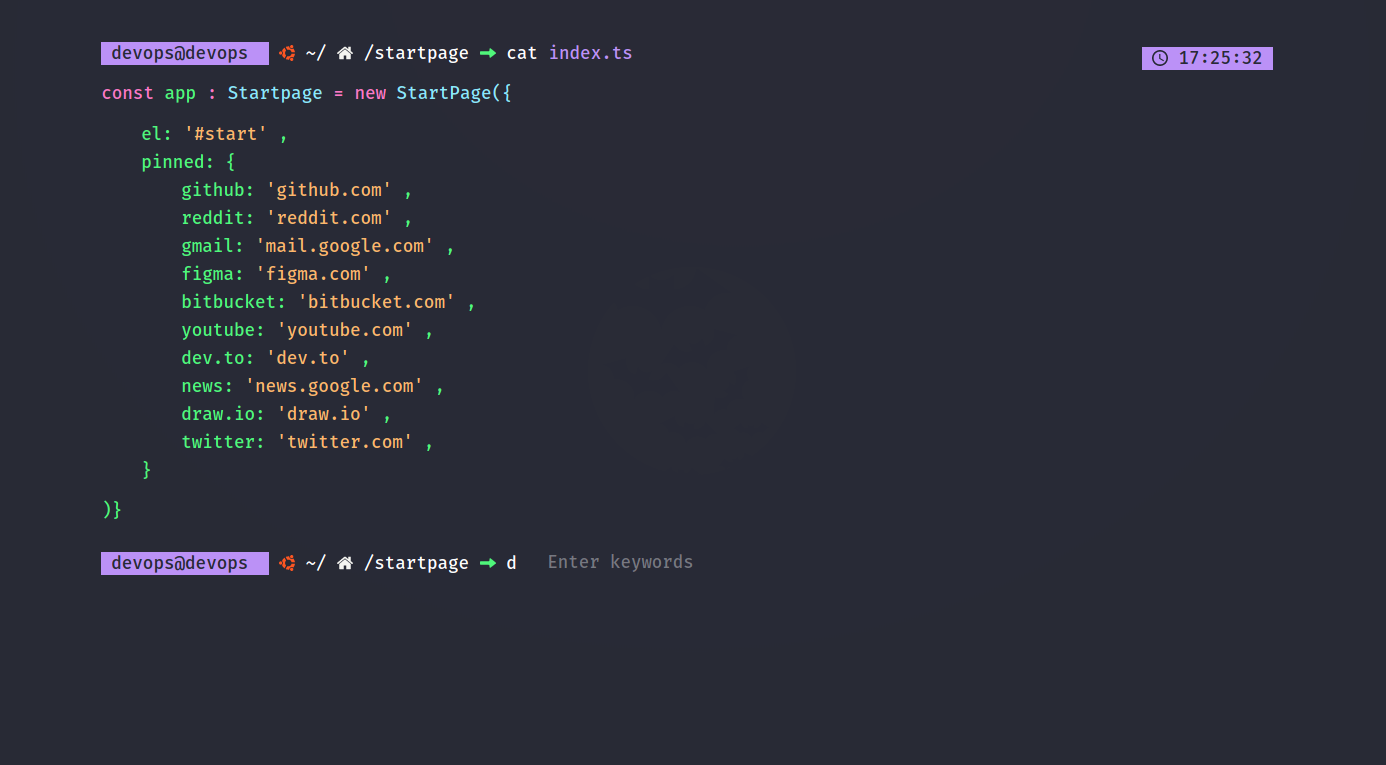
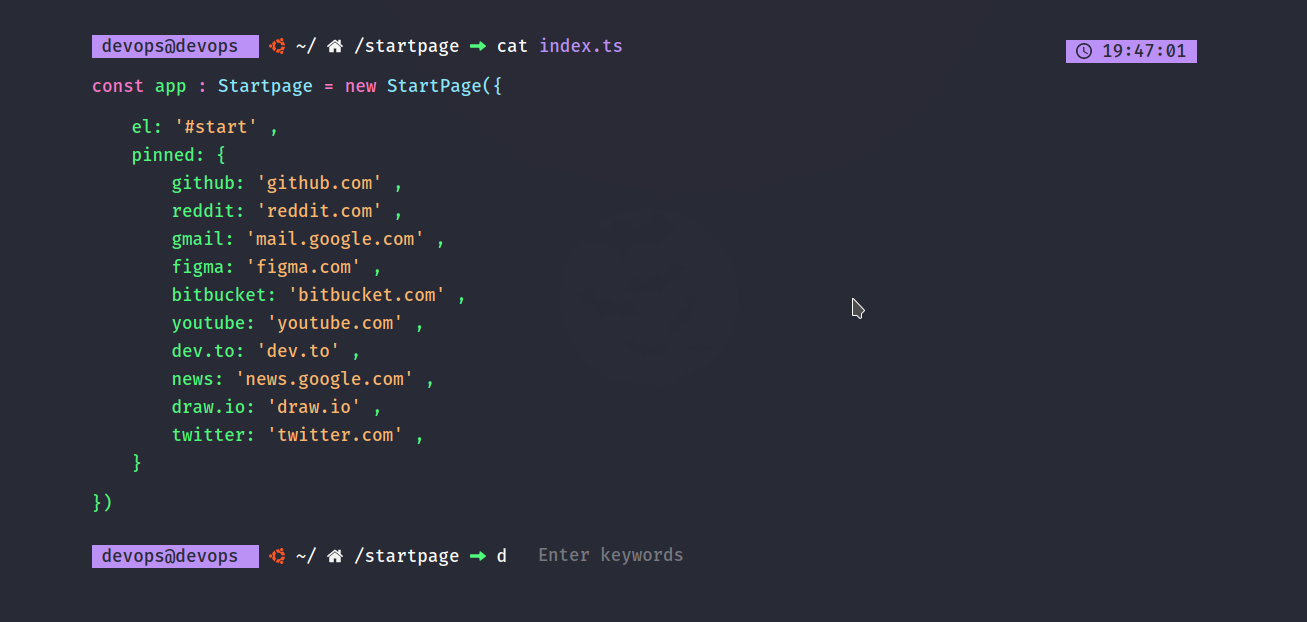
Fixed typo

diff --git a/index.html b/index.html
@@ -121,7 +121,7 @@
                             </a>
                         </li>
                         <li>
-                            <a href="https://twitter.com" rel="noreferrer">
+                            <a href="https://twitter.com/home" rel="noreferrer">
                                 <span class="name">twitter:</span>
                                 <span class="value">'twitter.com'</span>
                                 <span class="name">,</span>
@@ -134,7 +134,7 @@
                 </li>
             </ul>
             <span class="name">
-                )}
+                })
             </span>
         </p>
 
